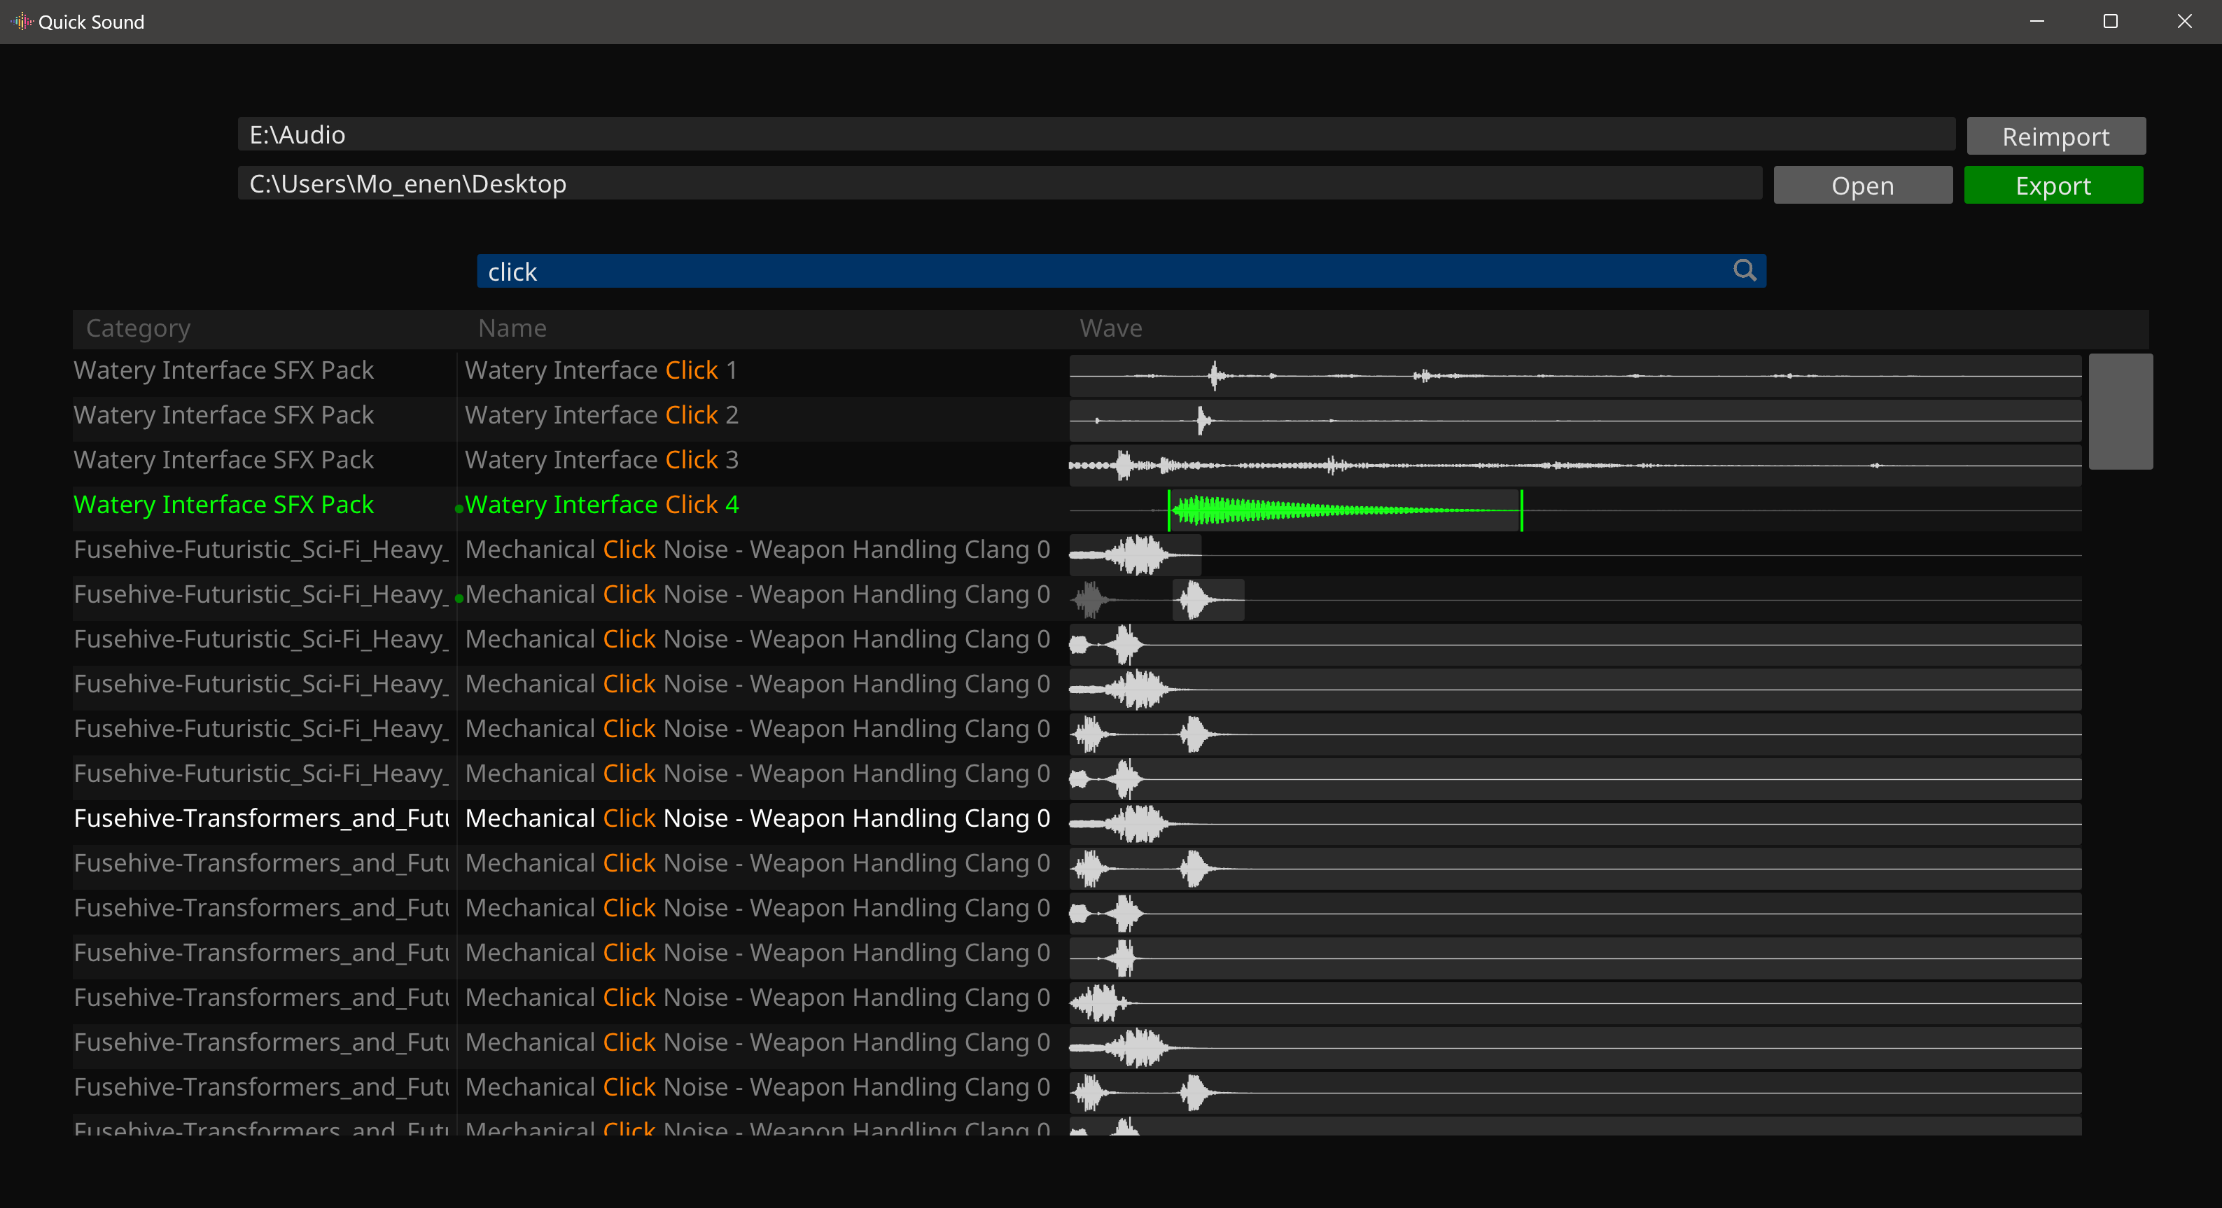
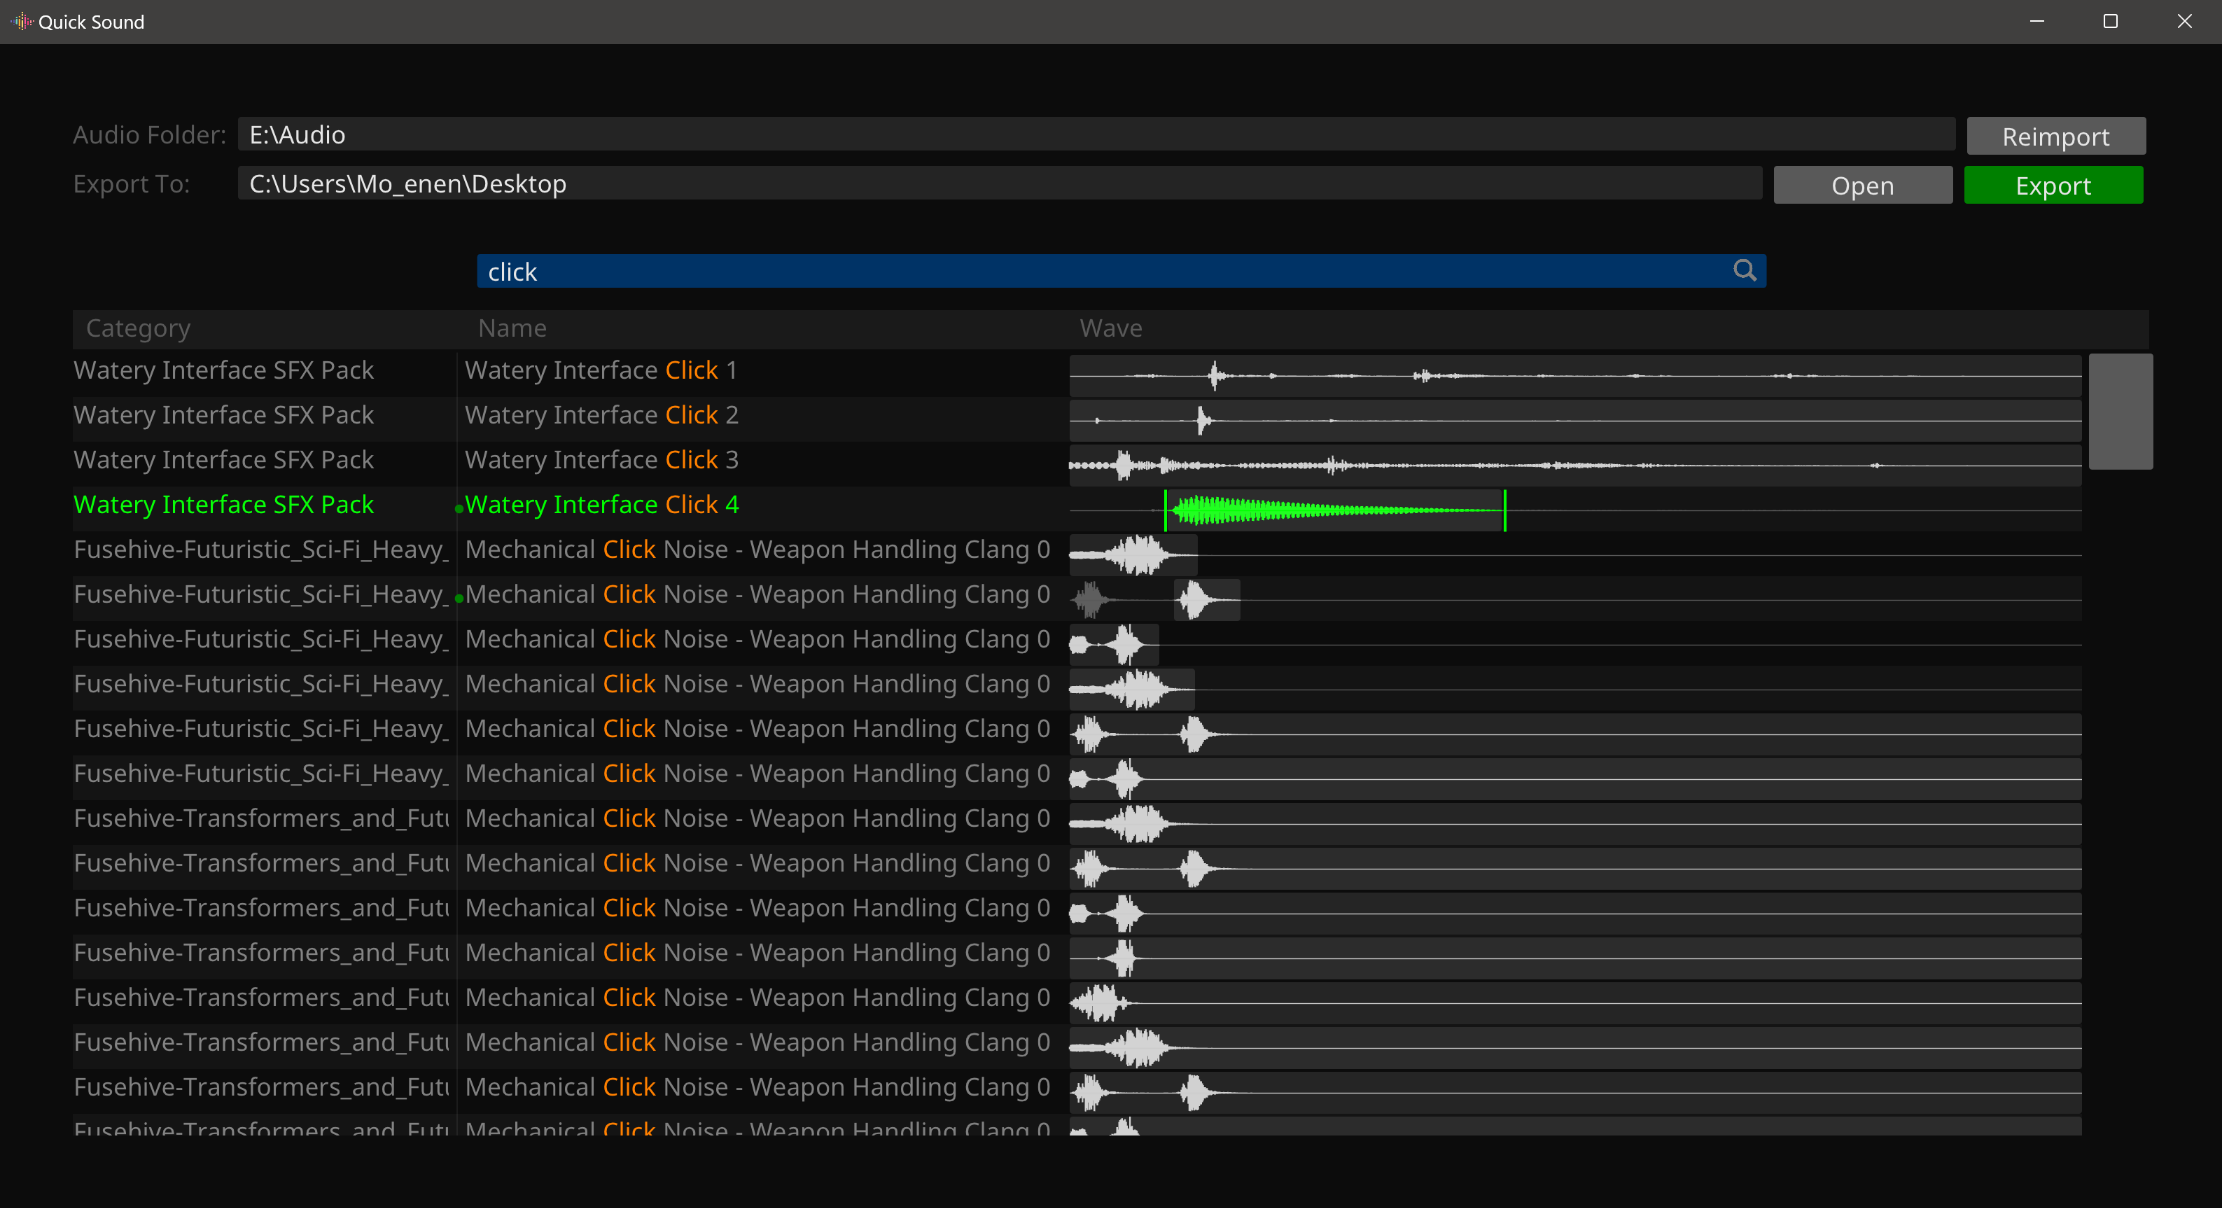
v1.0.3

diff --git a/src/Window.cs b/src/Window.cs
@@ -85,7 +85,7 @@ public class Window : FlowWindow {
 		// Root Label
 		const string ROOT_LABEL = "Audio Folder:";
 		float labelW = ImGui.CalcTextSize(ROOT_LABEL).X + 24;
-		GUI.Label(ROOT_LABEL, 0, GuiColor.DarkGrey);
+		GUI.Label(ROOT_LABEL, labelW, GuiColor.DarkGrey);
 
 		// Root Input
 		ImGui.SameLine(labelW);
@@ -123,7 +123,7 @@ public class Window : FlowWindow {
 		// =========== Second Row ===========
 		if (!string.IsNullOrEmpty(AudioRootPath) && Searcher.Imported && Searcher.ImportPathCount > 0) {
 			// Export Label
-			GUI.Label("Export To:", 0, GuiColor.DarkGrey);
+			GUI.Label("Export To:", labelW, GuiColor.DarkGrey);
 
 			// Export Input
 			ImGui.SameLine(labelW);
